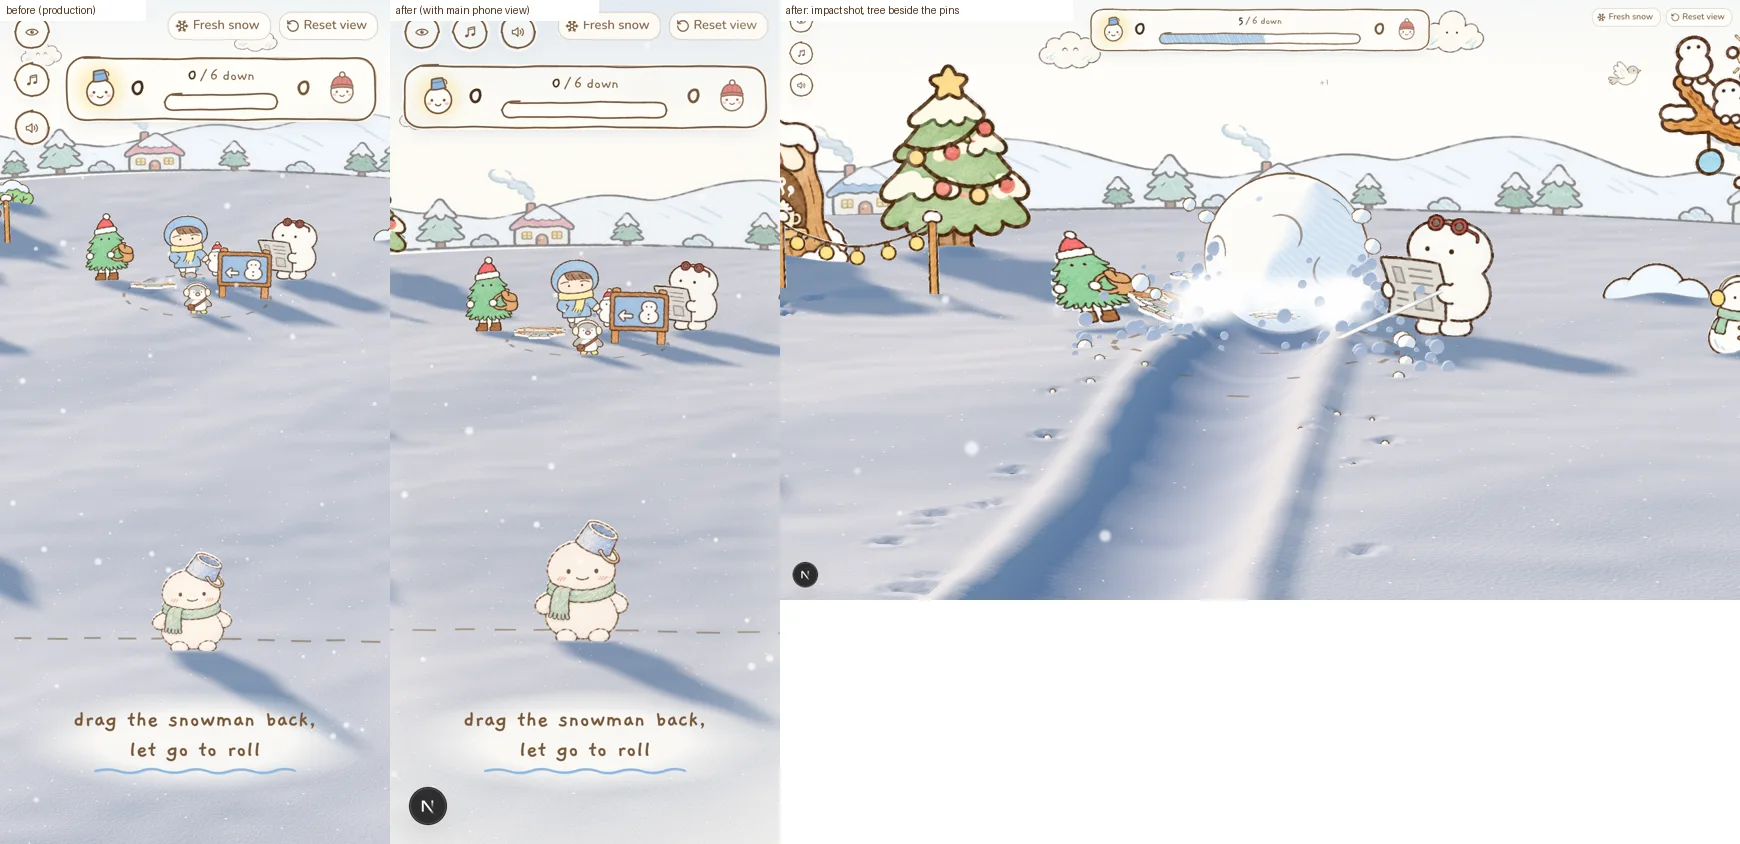
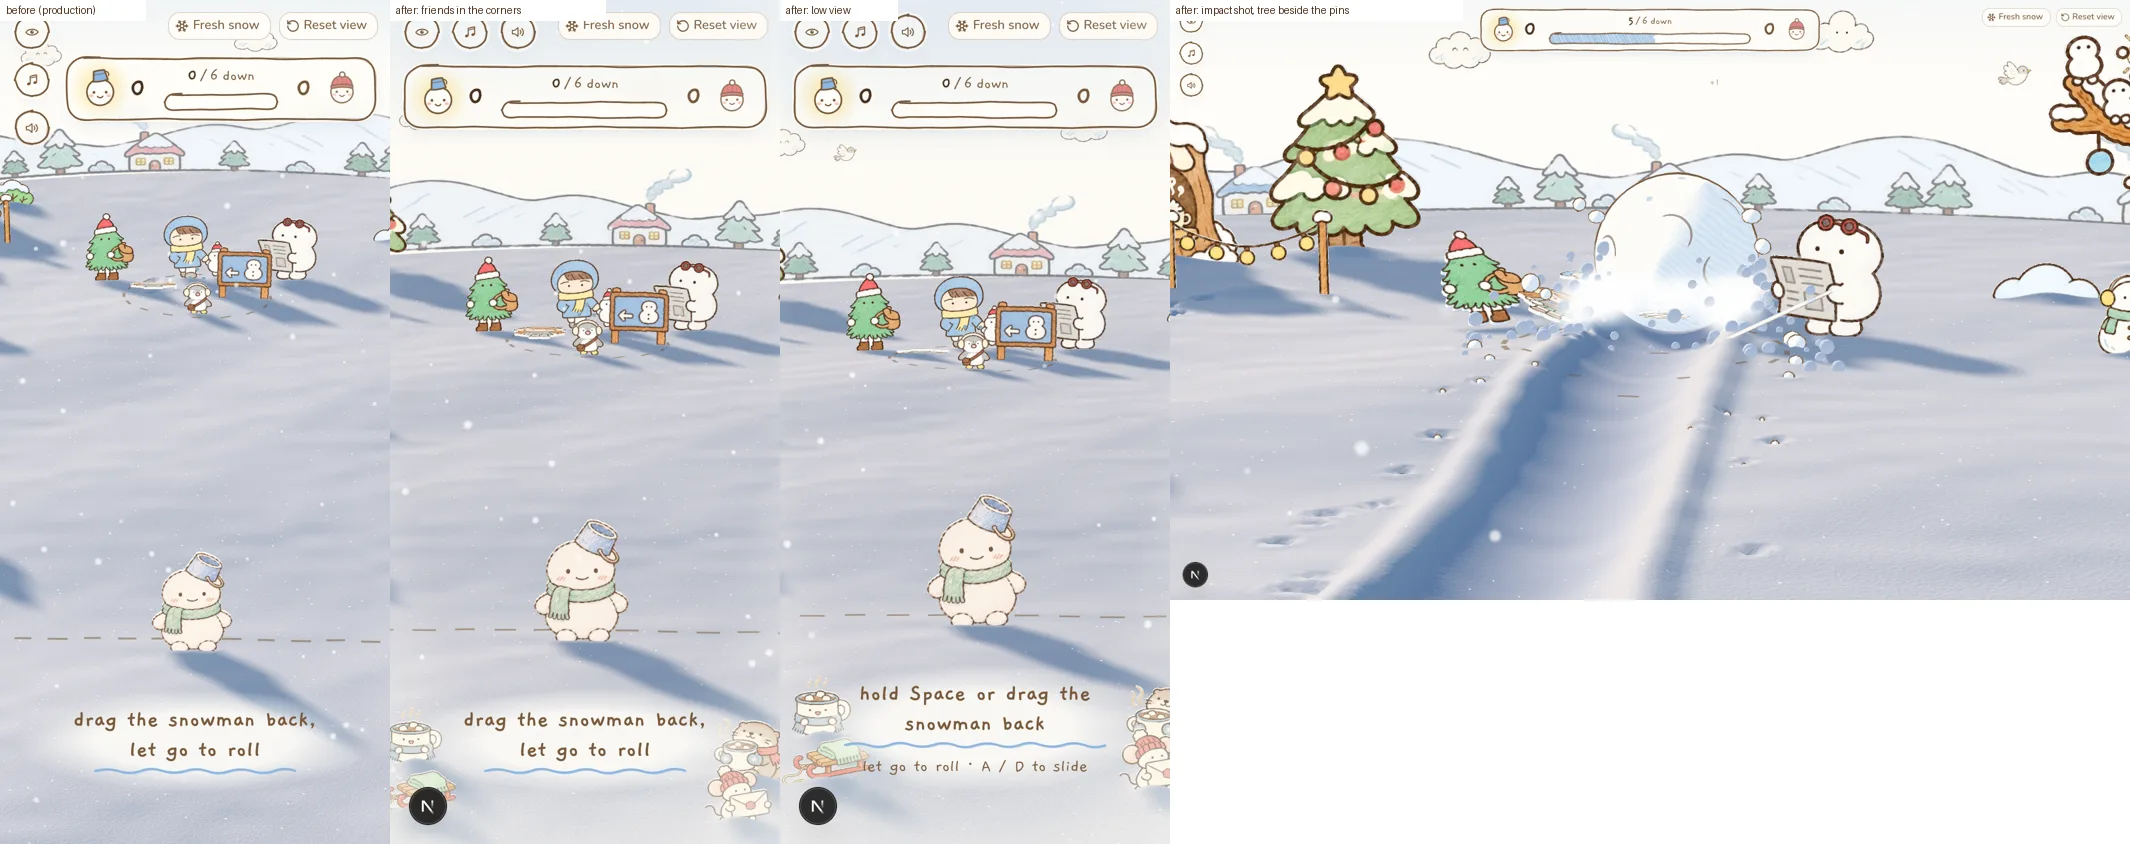
Tileable far hills, and small friends for the phone held upright
Rachel's tileable panorama replaces the mirrored one (copies side by side, joint eased
to meet exactly, gradient sampling so no line at the joint). A phone held upright gets
four small cut-outs low in its bottom corners; the mug and the mouse with the letter
also join the street on desktop.

Changed region(s): [[0.0, 0.0, 1.0, 1.0], [0.1862, 0.7393, 0.2172, 0.7701]]

diff --git a/src/features/scenery/content.ts b/src/features/scenery/content.ts
@@ -118,11 +118,12 @@ export const props = {
   "mice-lantern": { label: "Two mice with a lantern under a pine", height: 1.0, group: "mid", sink: 0.05, set: "doodle", role: "frame", emitsLight: [[0.365, 0.16]] },
   "bench-cat": { label: "Bench with a sleeping cat", height: 0.6, group: "mid", sink: 0.04, set: "doodle", role: "frame" },
   "otter-cocoa": { label: "Otter with a cocoa mug", height: 0.5, group: "friend", sink: 0.03, set: "doodle", role: "frame" },
-  // Kept as spares (Rachel: no need to use every new drawing): each repeats a moment already in the street.
-  "mug-cocoa": { label: "Cocoa mug character in a blue scarf", height: 0.5, group: "friend", sink: 0.03, set: "doodle", spare: true },
-  "mouse-letter": { label: "Mouse carrying a letter", height: 0.42, group: "friend", sink: 0.03, set: "doodle", spare: true },
+  // The mug and the mouse join the street as small bystanders; the sled waits in a phone corner. The red mailbox stays
+  // a spare (the penguins' postbox is the post office).
+  "mug-cocoa": { label: "Cocoa mug character in a blue scarf", height: 0.5, group: "friend", sink: 0.03, set: "doodle", role: "frame" },
+  "mouse-letter": { label: "Mouse carrying a letter", height: 0.42, group: "friend", sink: 0.03, set: "doodle", role: "frame" },
   "mailbox-red": { label: "Red mailbox with a flag", height: 0.75, group: "mid", sink: 0.05, set: "doodle", spare: true },
-  "sled-red": { label: "Red sled with a green blanket", height: 0.34, group: "small", sink: 0.03, set: "doodle", spare: true },
+  "sled-red": { label: "Red sled with a green blanket", height: 0.34, group: "small", sink: 0.03, set: "doodle", role: "frame" },
 
   // Ground details and life (doodle-7).
   "pond-frozen": { label: "Frozen pond", height: 0.34, group: "small", sink: 0.04, set: "doodle", role: "frame" },
@@ -279,7 +280,7 @@ export const lane = {
 export const throwers: [PropId, PropId] = ["thrower-bucket", "thrower-redhat"];
 
 /** The area shown on the top-down map. */
-export const mapArea = { minX: -7.8, maxX: 7.8, minZ: -12.2, maxZ: 2.2 };
+export const mapArea = { minX: -7.8, maxX: 7.8, minZ: -12.2, maxZ: 2.8 };
 
 export type Placement = {
   prop: PropId;
@@ -293,6 +294,11 @@ export type Placement = {
   side: "left" | "right" | "far";
   /** Stands this high above the snow instead of in it (the red bird on the stump). Default 0. */
   lift?: number;
+  /**
+   * Only on this kind of screen. "portrait": a phone held upright (narrower than `village.portraitAspect`), which
+   * sees only the lane, so a few small cut-outs stand low in its bottom corners. Default: every screen.
+   */
+  view?: "portrait" | "landscape";
 };
 
 /*
@@ -335,6 +341,7 @@ export const layout: Placement[] = [
   { prop: "cottage-snow", x: -5.55, z: -5.6, scale: 0.95, side: "left" },
   { prop: "pine-snow-tall", x: -7.6, z: -7.4, scale: 0.85, flip: true, side: "left" },
   { prop: "bush-snow", x: -2.65, z: -4.55, scale: 0.8, side: "left" },
+  { prop: "mug-cocoa", x: -2.45, z: -6.45, scale: 0.9, side: "left" },
   { prop: "rabbit", x: -3.1, z: -4.35, flip: true, side: "left" },
   // the pond corner, with the street lamp lighting the snow (its glow: `village.lampGlow`)
   { prop: "pond-frozen", x: -3.55, z: -3.7, scale: 1.15, side: "left" },
@@ -357,6 +364,7 @@ export const layout: Placement[] = [
   { prop: "skier", x: 2.6, z: -3.0, side: "right" },
   { prop: "penguins-postbox", x: 3.6, z: -1.75, side: "right" },
   { prop: "snowballs", x: 2.75, z: -0.6, side: "right" },
+  { prop: "mouse-letter", x: 4.4, z: -1.05, flip: true, side: "right" },
   { prop: "pine-snow-tall", x: 7.4, z: -6.0, scale: 0.85, side: "right" },
   { prop: "bush-snow", x: 6.4, z: -2.9, scale: 0.8, flip: true, side: "right" },
 
@@ -366,6 +374,13 @@ export const layout: Placement[] = [
   { prop: "bush-snow", x: -3.3, z: 2.15, scale: 0.7, side: "left" },
   { prop: "pine-snow-short", x: 3.85, z: 1.85, scale: 0.9, side: "right" },
   { prop: "bush-snow", x: 3.7, z: 0.7, scale: 0.85, flip: true, side: "right" },
+
+  // A phone held upright sees only the lane, so a few small friends stand low in its bottom corners, in front of
+  // the line and wide of the pull (all under the near height limit, so they never cover the thrower or the pins).
+  { prop: "mug-cocoa", x: -0.36, z: 1.7, scale: 0.85, view: "portrait", side: "left" },
+  { prop: "sled-red", x: -0.3, z: 2.15, scale: 0.9, view: "portrait", side: "left" },
+  { prop: "otter-cocoa", x: 0.5, z: 1.75, scale: 0.9, flip: true, view: "portrait", side: "right" },
+  { prop: "mouse-letter", x: 0.38, z: 2.2, view: "portrait", side: "right" },
 ];
 
 /**
@@ -556,6 +571,9 @@ export const village = {
     radiusShare: 1 / 3,
   },
 
+  /** Narrower than this (width / height) is a phone held upright: the game's own switch (`GAME.phoneView.maxAspect`). */
+  portraitAspect: 0.8,
+
   /** Side props move out by this much more than the thrower's extra slide room, to keep the roll lane open. */
   sideMargin: 0,
 
@@ -687,11 +705,11 @@ export const backdrop = {
   /** Far hills band: height on the wall (width follows the drawing), how far its foot sinks into the snow. */
   hillsHeight: 0.95,
   /**
-   * The share of `far-hills.webp`'s width that holds the drawing (its first and last 9 columns are empty), so no
-   * white gap shows where copies meet. The two ends do not match, so copies alternate mirrored and each joint meets
-   * its own mirror image. A version Rachel draws to tile would be best.
+   * The share of `far-hills.webp`'s width that holds the drawing (the cut leaves a clear margin at both ends), so
+   * no gap shows where copies meet. Rachel drew this panorama to tile, so copies sit side by side, never mirrored
+   * (`scripts/prep_far_hills.py` eased her right end by a few pixels so both lines meet exactly).
    */
-  hillsCrop: [10 / 2126, 2116 / 2126] as [number, number],
+  hillsCrop: [18.5 / 2188, 2169.5 / 2188] as [number, number],
   hillsSink: 0.12,
   /** The far hills fade this much toward `--snow-shadow` (distance haze), so they sit behind the village on the lit snow. */
   haze: 0.3,

diff --git a/src/features/scenery/three/Backdrop.tsx b/src/features/scenery/three/Backdrop.tsx
@@ -31,9 +31,9 @@ const fade = { uOpacity: { value: 1 } };
 
 /** A flat drawing shown exactly as drawn (no light, no tone mapping), fading with the backdrop. */
 /**
- * `tile` lays the drawing along the band `repeat` times: every other copy mirrored so each joint meets its own
- * mirror image (the panorama's two ends do not match), using only `crop` (share of the width that has art,
- * without the empty margin), shifted by `phase` copies.
+ * `tile` lays the drawing along the band `repeat` times, side by side (Rachel's panorama is drawn to tile: its
+ * right end meets its left), using only `crop` (share of the width that has art, without the empty margin),
+ * shifted by `phase` copies.
  */
 type Tile = { repeat: number; crop: [number, number]; phase: number };
 
@@ -69,10 +69,10 @@ function artPlaneMaterial(map: Texture, paper: Color, haze: number, tile: Tile |
         // Seen from inside the curve, the drawing runs the other way round (so it is not mirrored).
         float u = ${mirror ? "1.0 - vUv.x" : "vUv.x"};
         ${tile ? `float t = u * uRepeat + uPhase;
-        float f = fract(t);
-        if (mod(floor(t), 2.0) >= 1.0) f = 1.0 - f;
-        u = mix(uCrop.x, uCrop.y, f);` : ""}
-        vec4 art = texture2D(uMap, vec2(u, vUv.y));
+        u = mix(uCrop.x, uCrop.y, fract(t));
+        // Pick the texture detail from the unbroken coordinate, so the jump back at each joint draws no line.
+        vec2 steady = vec2(t * (uCrop.y - uCrop.x), vUv.y);
+        vec4 art = textureGrad(uMap, vec2(u, vUv.y), dFdx(steady), dFdy(steady));` : `vec4 art = texture2D(uMap, vec2(u, vUv.y));`}
         if (art.a < 0.02) discard;
         gl_FragColor = vec4(mix(art.rgb, uPaper, uHaze), art.a * uOpacity);
         #include <colorspace_fragment>
@@ -198,7 +198,7 @@ export function Backdrop({ center, reach = 0 }: Props) {
   const crop = b.hillsCrop;
   const copyWidth = (px ? (b.hillsHeight * px.w) / px.h : b.hillsHeight * 14) * (crop[1] - crop[0]);
   const hillsRadius = b.radius - 0.05;
-  // A whole number of copies (never stretched much), mirrored at every joint, with a copy's middle straight back.
+  // A whole number of copies (never stretched much), side by side, with a copy's middle straight back.
   const repeats = Math.max(1, Math.round((hillsRadius * arc) / copyWidth));
   const phase = 0.5 - ((repeats * 0.5) % 1);
   const hills = useMemo(

diff --git a/src/features/scenery/village.ts b/src/features/scenery/village.ts
@@ -57,13 +57,15 @@ export type VillageProp = {
  * far end kept close behind the pins), side props moved out by the lane's extra slide room. Pins (the friend
  * cut-outs) are never part of it; they belong to the pins feature.
  */
-export function villageLayout(lane: GameLane = drawnGameLane): VillageProp[] {
+export function villageLayout(lane: GameLane = drawnGameLane, portrait = false): VillageProp[] {
   const drawn = drawnGameLane;
   const shift = Math.max(lane.halfWidth - drawn.halfWidth, 0) + village.sideMargin;
-  return layout.map((p, i) => {
+  const screen = portrait ? "portrait" : "landscape";
+  return layout.flatMap((p, i) => {
+    if (p.view && p.view !== screen) return [];
     const scale = p.scale ?? 1;
     const out = p.side === "left" ? -shift : p.side === "right" ? shift : 0;
-    return {
+    return [{
       key: `village-${p.prop}-${i}`,
       id: p.prop,
       x: p.x + out + (lane.pinSpot.x - drawn.pinSpot.x),
@@ -74,7 +76,7 @@ export function villageLayout(lane: GameLane = drawnGameLane): VillageProp[] {
       width: propWidth(p.prop) * scale,
       side: p.side,
       lift: p.lift ?? 0,
-    };
+    }];
   });
 }
 
@@ -111,6 +113,7 @@ export function throwingView(lane: GameLane = drawnGameLane): SnowViewSettings {
 export function villageProblems(
   lane: GameLane = drawnGameLane,
   camera?: { x: number; y: number; z: number },
+  portrait = false,
 ): string[] {
   const problems: string[] = [];
   const margin = drawnLane.clear.maxX - drawnLane.throwLine.halfWidth;
@@ -119,7 +122,7 @@ export function villageProblems(
     maxZ: fitZ(drawnLane.clear.maxZ, lane),
     minZ: fitZ(drawnLane.clear.minZ, lane),
   };
-  for (const p of villageLayout(lane)) {
+  for (const p of villageLayout(lane, portrait)) {
     const name = `${p.id} at (${p.x.toFixed(2)}, ${p.z.toFixed(2)})`;
     const half = p.width / 2;
     const inLane =

diff --git a/src/features/scenery/three/Village.tsx b/src/features/scenery/three/Village.tsx
@@ -57,7 +57,9 @@ export function Village({ lane = drawnGameLane, pivot }: Props) {
 
 function Standees({ lane, pivot }: { lane: GameLane; pivot?: [number, number, number] }) {
   const snow = useSnow();
-  const placed = useMemo(() => villageLayout(lane).filter((p) => hasOutline(p.id)), [lane]);
+  // A phone held upright gets the few cut-outs placed for its narrow frame (`view: "portrait"` in the layout).
+  const portrait = useThree((s) => s.size.width / s.size.height < village.portraitAspect);
+  const placed = useMemo(() => villageLayout(lane, portrait).filter((p) => hasOutline(p.id)), [lane, portrait]);
   const ids = useMemo(() => [...new Set(placed.map((p) => p.id))], [placed]);
   const urls = useMemo(() => Object.fromEntries(ids.map((id) => [id, propSrc(id)])), [ids]);
   const textures = useTexture(urls) as Record<string, Texture>;
@@ -175,14 +177,15 @@ function Mover({ id, x, z, inward, children }: { id: PropId; x: number; z: numbe
 /** Development only: once the camera has settled in its default view, list anything in the lane or the sight line. */
 function SightCheck({ lane }: { lane: GameLane }) {
   const camera = useThree((s) => s.camera);
+  const portrait = useThree((s) => s.size.width / s.size.height < village.portraitAspect);
   useEffect(() => {
     const timer = window.setTimeout(() => {
-      const problems = villageProblems(lane, camera.position);
+      const problems = villageProblems(lane, camera.position, portrait);
       if (problems.length > 0) console.warn("Village layout:", problems);
       else console.info("Village layout: lane clear, pins in sight.");
     }, 1500);
     return () => window.clearTimeout(timer);
-  }, [lane, camera]);
+  }, [lane, camera, portrait]);
   return null;
 }
 

diff --git a/scripts/prep_far_hills.py b/scripts/prep_far_hills.py
@@ -1,0 +1,43 @@
+#!/usr/bin/env python3
+"""Make Rachel's tileable far-hills panorama meet itself exactly at the joint (run once, from the repo root).
+
+Reads  art-source/scenery/far-2-panorama-tileable-original.png (Rachel's file, unchanged)
+Writes art-source/scenery/far-2-panorama-tileable.png (what the slicer cuts, see sheets.json)
+
+Her two ends met within a few pixels: the hill line is 7 px higher at the right edge and the ground line 1 px
+lower. Over the last 127 px on the right (open hill only, no trees or houses there) the hill line eases down
+and the ground line eases up, so a copy placed next to another continues without a step.
+"""
+from pathlib import Path
+
+import numpy as np
+from PIL import Image
+
+HERE = Path(__file__).resolve().parent.parent / "art-source" / "scenery"
+X0 = 2045                     # where the easing starts
+HILL_BAND, HILL_STEP = (520, 600), 8     # rows round the hill line, and how far down it moves at the edge
+GROUND_BAND, GROUND_STEP = (601, 616), -1  # rows round the ground line, and how far (up) it moves
+
+
+def ease(a: np.ndarray, out: np.ndarray, band: tuple[int, int], step: int) -> None:
+    w = a.shape[1]
+    lo, hi = band
+    for x in range(X0, w):
+        s = int(round(step * (x - X0) / (w - 1 - X0)))
+        if s == 0:
+            continue
+        col = a[lo:hi, x].copy()
+        if s > 0:
+            out[lo + s:hi, x] = col[: hi - lo - s]
+            out[lo:lo + s, x] = a[lo, x]
+        else:
+            out[lo:hi + s, x] = col[-s:]
+            out[hi + s:hi, x] = a[hi - 1, x]
+
+
+a = np.array(Image.open(HERE / "far-2-panorama-tileable-original.png").convert("RGB"))
+out = a.copy()
+ease(a, out, HILL_BAND, HILL_STEP)
+ease(a, out, GROUND_BAND, GROUND_STEP)
+Image.fromarray(out).save(HERE / "far-2-panorama-tileable.png")
+print("wrote", HERE / "far-2-panorama-tileable.png")

diff --git a/docs/DECISIONS.md b/docs/DECISIONS.md
@@ -68,5 +68,5 @@ One line per decision: date, what, why.
 - 2026-11-25 · The throw is filmed (Rachel: the camera felt static, the lane short): the snow scene's camera takes shots (`setSnowCameraShot`, `kickSnowCamera`) as an offset on top of the player's own view, pulled by critically damped springs so it never jumps and never lags the player's own turning; the game directs aim → launch → chase → impact → return (the camera never goes past the snowman, Rachel: it follows the ball by zooming, not by flying down the lane), and any drag, scroll or key hands the view back. This replaces `CameraFollow.tsx`. The lane is 8.6 long (was 5.6); the village stretches only between the line and the pins, so the far cluster and the paper sky stay as close behind the pins as before.
 - 2026-11-25 · The picture gets its finish from plain CSS above the canvas (`src/features/look/`: a faint `--ink` paper grain and a soft fade into `--paper` at the bottom and corners), not from post-processing: an EffectComposer renders into a target, where three.js skips tone mapping, so either the lit snow or the unlit paper would change. Tilt-shift, bloom, Sparkles, Clouds, ContactShadows, SoftShadows and Motion were reviewed and not added (docs/REVIEW.md, #42). Wired into the home page only after the throw-camera PR, which owns `src/features/game/`, merges.
 - 2026-11-25 · A phone held upright (width / height under 0.8) gets its own throwing view from the game (`GAME.phoneView`: lower on the camera path, further back, looking a little further down the lane), so the pins sit near the middle with the village below the score panel and no empty snow under the thrower; wider screens keep the scenery's `throwingView`. Two framings, never a blend, so resizing never makes the camera jump. On phones the corner toggles are one row and the panel takes the full width below; the "+1" lands on the bar's fill end, not the label. The paper finish (`<PaperFinish />`) is on the home page (#46, #50).
-- 2026-11-25 · The village is a little street from Rachel's doodle-8/9/10 sheets: only eight of the twelve new drawings are placed (Rachel: no need to use them all, just a slightly bigger, richer scene), the homes stand forward of a back row (Christmas tree, café, cocoa stall, red cottage) so no roof hides it, the Christmas tree stays beside the pins, never behind them (it hid the green walking-pine pin in the impact shot), and no crayon prop stands in the village (the doodle lamp took the name `street-lamp`). Props carry optional effect tags (`emitsLight`, `chimneyAt`, `icicleEdge`).
+- 2026-11-25 · The village is a little street from Rachel's doodle-8/9/10 sheets: only eight of the twelve new drawings are placed (Rachel: no need to use them all, just a slightly bigger, richer scene), the homes stand forward of a back row (Christmas tree, café, cocoa stall, red cottage) so no roof hides it, the Christmas tree stays beside the pins, never behind them (it hid the green walking-pine pin in the impact shot), and no crayon prop stands in the village (the doodle lamp took the name `street-lamp`). Props carry optional effect tags (`emitsLight`, `chimneyAt`, `icicleEdge`). A phone held upright gets its own few small cut-outs low in the bottom corners (`view: "portrait"`), since it sees only the lane. The far hills are Rachel's tileable panorama, copies side by side instead of mirrored (no symmetric bump).
 - 2026-11-25 · The hit reads at once (#47, #48, #52): a ball that has rolled through the pins bursts into snow (`burst()` in bowling, called by the pins) because from the low impact camera even a ball resting behind the set covers the fallen cards; the pins' `result` now fires as soon as the count is certain instead of after the ball stops (the game needs no change). Fallen cards are propped 16° off the snow on a paper-snow heap in the drawing only (30° read as still standing; a real `heapSnow` heap is permanent, so not used); no "x x" face, as the art has none. The pulled ball grows beside the thrower's feet, so its roll starts beside the snowman rather than behind it.

diff --git a/src/features/scenery/README.md b/src/features/scenery/README.md
@@ -201,7 +201,10 @@ Three new sheets, cut by the slicer like the others: `tree-christmas`, `otter-co
 `cafe-stump`, `penguins-postbox`, `cottage-snow`, `mice-lantern`; `street-lamp`, `mailbox-red`, `bench-cat`, `sled-red`
 (the steam lines stay with their mug; the sled's see-through gaps are `holes` in `sheets.json`).
 Rachel asked for a slightly bigger, richer village, not every drawing, so eight are placed and four are spares
-(`mug-cocoa`, `mouse-letter`, `mailbox-red`, `sled-red`, each repeating a moment already in the street).
+(`mug-cocoa`, `mouse-letter`, `mailbox-red`, `sled-red`). Later the mug joined the street by the blue cottage, the mouse
+with the letter heads for the post office, and on a phone held upright the mug, the sled, the otter and the mouse
+stand low in the bottom corners (`view: "portrait"` placements; a phone sees only the lane, and the near-height limit
+keeps them small, so no pine). The red mailbox stays a spare (the penguins' postbox is the post office).
 
 - **The street:** along the back left a row of the Christmas tree (the landmark, beside the pins, never behind them),
   the tree-stump café and the cocoa stall (the cocoa corner, fairy lights strung in front) and the red cottage; the
@@ -220,3 +223,12 @@ Rachel asked for a slightly bigger, richer village, not every drawing, so eight 
   the snow cottage's eave and the igloo's window and door tops (`icicleEdge`). Nothing reads them yet; the lamp glow
   and chimney smoke still use `village.lampGlow` and `village.chimneys` (the snow cottage has its own drawn smoke
   curl, so it is not in `village.chimneys`).
+
+### Tileable far hills
+
+`far-hills.webp` is cut from Rachel's panorama drawn to tile (`far-2-panorama-tileable-original.png`, unchanged).
+Its ends met within 7 px (hill line) and 1 px (ground line); `scripts/prep_far_hills.py` eases the last 127 px on
+the right (open hill only) so both lines meet exactly, writing `far-2-panorama-tileable.png`, which the slicer cuts
+(seal lines at both edges keep the white inside the hills). The band lays whole copies side by side (no mirroring),
+a copy's middle straight back; `backdrop.hillsCrop` drops the cut's clear margins, and the shader samples with the
+gradient of the unbroken coordinate so the joint draws no line.
